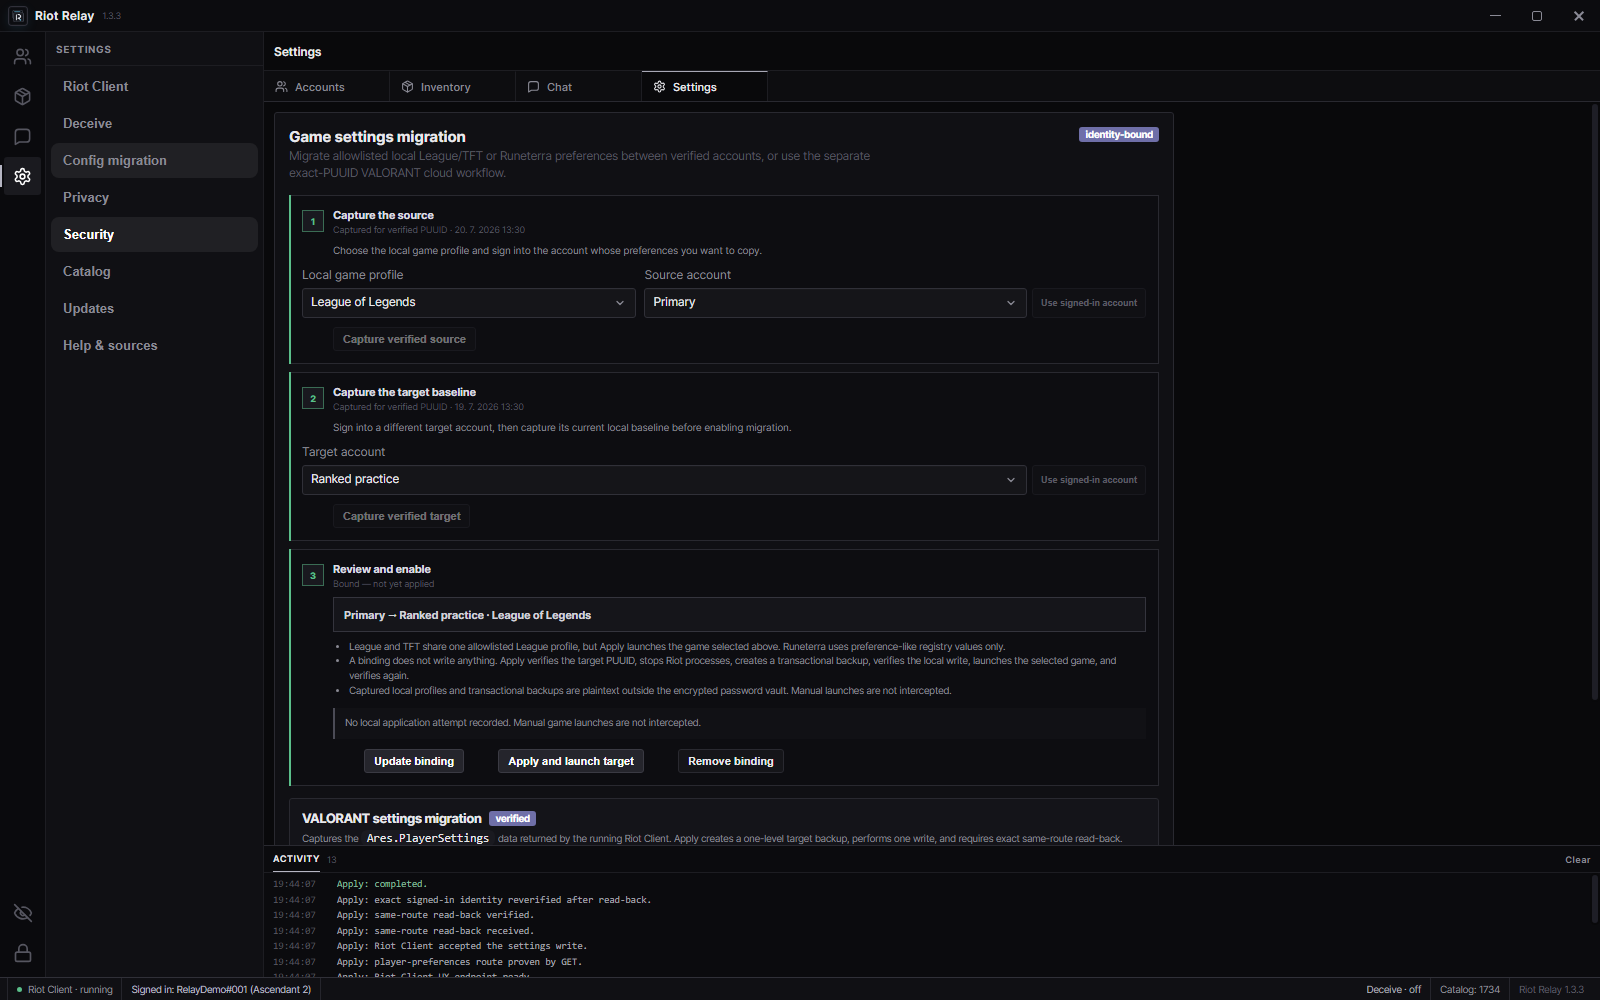
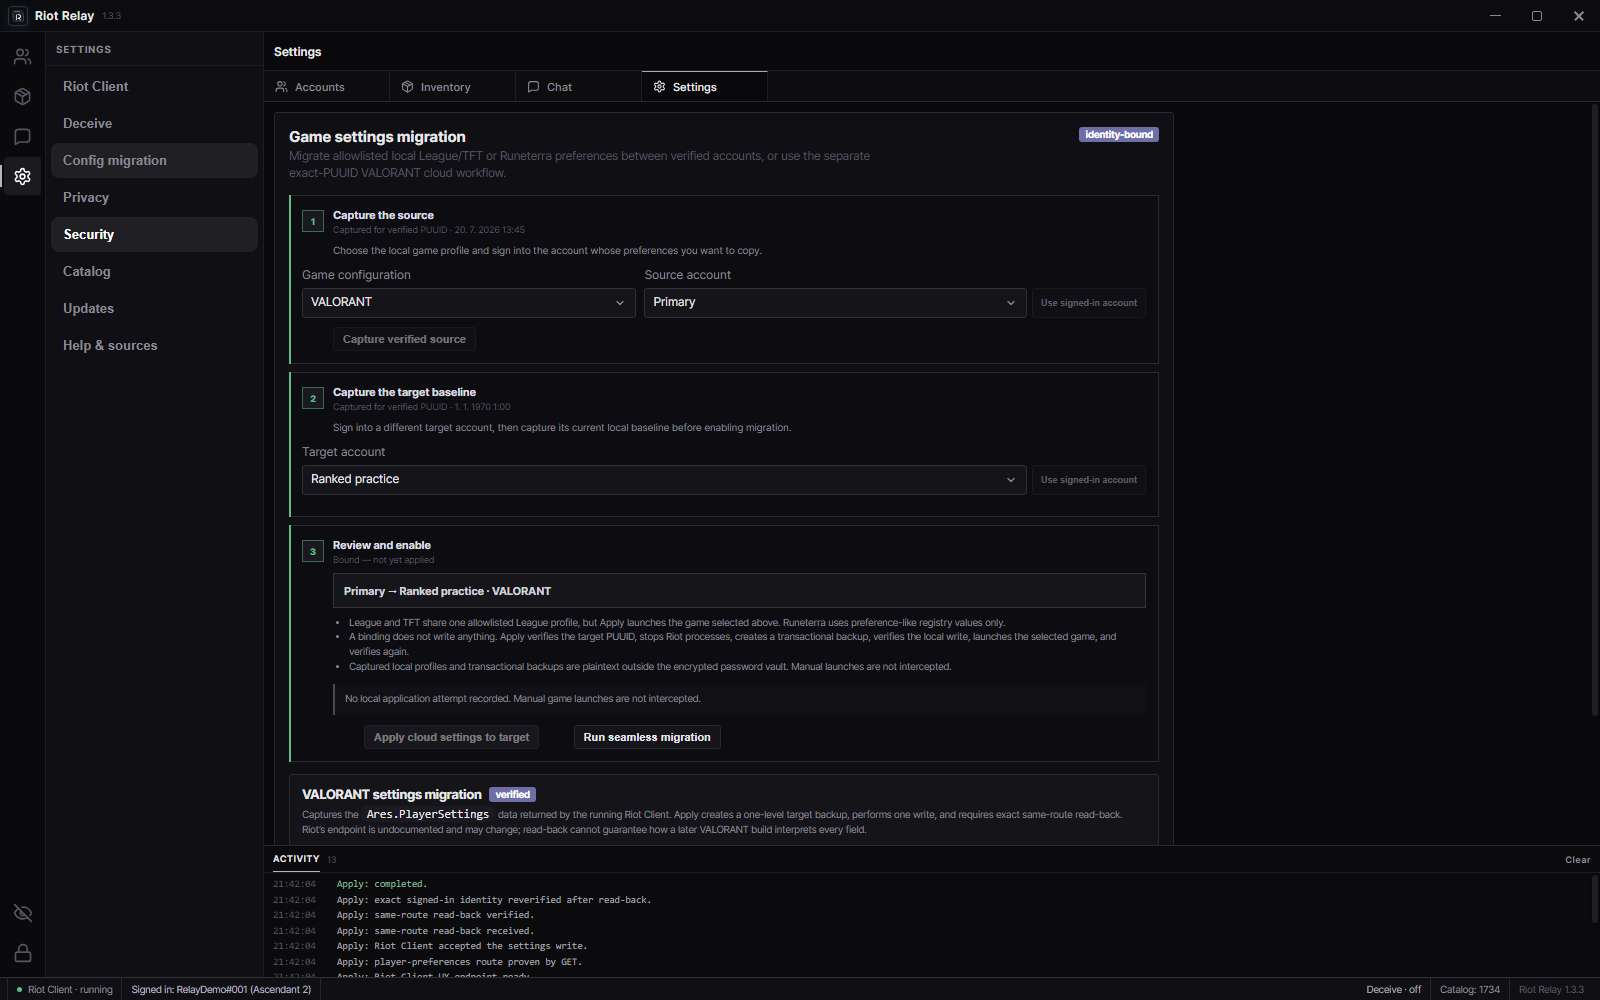
Release Riot Relay 1.3.4 hotfix

Changed region(s): [[0.1875, 0.496, 0.6875, 0.868], [0.1875, 0.248, 0.25, 0.31], [0.2812, 0.403, 0.3125, 0.434]]

diff --git a/renderer/app.js b/renderer/app.js
@@ -34,7 +34,7 @@ const state = {
   activity: [],
   rankIcons: {},
   settings: {},
-  updates: { status: 'idle', currentVersion: '1.3.3', availableVersion: null, progress: 0 },
+  updates: { status: 'idle', currentVersion: '1.3.4', availableVersion: null, progress: 0 },
   startup: { supported: false, enabled: false, reason: 'Checking Windows startup registration…' },
   configProfiles: [],
   configProfilesError: null,
@@ -1538,9 +1538,11 @@ async function doSwitch(id, launchGame = null) {
       try { state.accounts = unwrap(await api.accounts.list()); } catch { /* locked */ }
     }
     renderAccounts(); renderDetail();
+    return res;
   } catch (e) {
     logActivity(e.message, 'bad');
     toast(e.message, 'bad');
+    return null;
   } finally {
     await refreshConfigProfiles();
     switchOverlay.hidden = true;
@@ -2085,7 +2087,8 @@ async function refreshDeceiveState() {
   }
 }
 
-function configNamespace() { return $('#config-game').value === 'lol' || $('#config-game').value === 'tft' ? 'league' : $('#config-game').value; }
+function configNamespace() { return $('#config-game').value; }
+function configLaunchGame() { return configNamespace() === 'league' ? $('#config-league-launch').value : configNamespace(); }
 function linkedConfigAccounts() {
   const linkedIds = new Set(state.configProfiles.filter((item) => item && item.linked === true).map((item) => item.accountId));
   return state.accounts.filter((account) => linkedIds.has(account.id));
@@ -2190,15 +2193,16 @@ function renderConfigProfileStatus() {
   const differentAccounts = !!sourceId && !!targetId && sourceId !== targetId;
   const sourceLinked = source?.linked === true;
   const targetLinked = target?.linked === true;
-  const sourceReady = !!(source && source.profiles && source.profiles[namespace]);
-  const targetReady = !!(target && target.profiles && target.profiles[namespace]);
-  const sourceInvalid = !!(source && source.profileErrors && source.profileErrors[namespace]);
-  const targetInvalid = !!(target && target.profileErrors && target.profileErrors[namespace]);
+  const isCloud = namespace === 'valorant';
+  const sourceReady = isCloud ? source?.cloudCaptured === true : !!(source && source.profiles && source.profiles[namespace]);
+  const targetReady = isCloud ? targetLinked : !!(target && target.profiles && target.profiles[namespace]);
+  const sourceInvalid = !isCloud && !!(source && source.profileErrors && source.profileErrors[namespace]);
+  const targetInvalid = !isCloud && !!(target && target.profileErrors && target.profileErrors[namespace]);
   const sourceCaptureAllowed = enoughLinkedAccounts && sourceLinked && activeId === sourceId;
-  const targetCaptureAllowed = enoughLinkedAccounts && targetLinked && activeId === targetId;
-  const bound = !!(target && target.bindings && target.bindings[namespace]);
-  const applicable = !!(target && target.bindingApplicable && target.bindingApplicable[namespace]);
-  const boundSourceId = target && target.bindingSources && target.bindingSources[namespace];
+  const targetCaptureAllowed = !isCloud && enoughLinkedAccounts && targetLinked && activeId === targetId;
+  const bound = isCloud ? sourceReady && differentAccounts : !!(target && target.bindings && target.bindings[namespace]);
+  const applicable = isCloud ? bound && targetLinked : !!(target && target.bindingApplicable && target.bindingApplicable[namespace]);
+  const boundSourceId = isCloud ? sourceId : target && target.bindingSources && target.bindingSources[namespace];
   const selectedRouteBound = bound && boundSourceId === sourceId;
   const sourceTime = sourceReady ? formatConfigCaptureTime(source.profileCapturedAt && source.profileCapturedAt[namespace]) : '';
   const targetTime = targetReady ? formatConfigCaptureTime(target.profileCapturedAt && target.profileCapturedAt[namespace]) : '';
@@ -2241,14 +2245,20 @@ function renderConfigProfileStatus() {
     : selectedRouteBound ? 'complete' : sourceReady && targetReady && differentAccounts ? 'active' : 'blocked');
 
   $('#btn-config-capture-source').disabled = unavailable || !sourceCaptureAllowed;
-  $('#btn-config-capture-target').disabled = unavailable || !sourceReady || !differentAccounts || !targetCaptureAllowed;
-  $('#btn-config-migrate').disabled = unavailable || !enoughLinkedAccounts || !sourceLinked || !targetLinked || !sourceReady || !targetReady || !differentAccounts;
+  $('#btn-config-capture-target').hidden = isCloud;
+  $('#btn-config-capture-target').disabled = isCloud || unavailable || !sourceReady || !differentAccounts || !targetCaptureAllowed;
+  $('#btn-config-migrate').hidden = isCloud;
+  $('#btn-config-migrate').disabled = isCloud || unavailable || !enoughLinkedAccounts || !sourceLinked || !targetLinked || !sourceReady || !targetReady || !differentAccounts;
   $('#btn-config-migrate').textContent = selectedRouteBound ? 'Update binding' : 'Save binding';
-  $('#btn-config-apply').disabled = unavailable || !enoughLinkedAccounts || !differentAccounts || !sourceLinked || !targetLinked || !selectedRouteBound || !applicable;
-  $('#btn-config-remove').hidden = !bound;
+  $('#btn-config-apply').disabled = unavailable || !enoughLinkedAccounts || !differentAccounts || !sourceLinked || !targetLinked || !sourceReady || (isCloud ? activeId !== targetId : !selectedRouteBound || !applicable);
+  $('#btn-config-apply').textContent = isCloud ? 'Apply cloud settings to target' : 'Apply and launch target';
+  $('#btn-config-auto').disabled = unavailable || !enoughLinkedAccounts || !differentAccounts || !sourceLinked || !targetLinked;
+  $('#btn-config-remove').hidden = isCloud || !bound;
   $('#btn-config-remove').disabled = unavailable;
+  $('#config-league-launch-wrap').hidden = namespace !== 'league';
   const cloud = $('#config-cloud');
   if (cloud) {
+    cloud.hidden = !isCloud;
     const activeId = activeConfigAccountId();
     // The captured source is whichever validated account blob is newest.
     const source = latestCloudSourceStatus();
@@ -2326,10 +2336,13 @@ $('#set-startup').addEventListener('change', async (event) => {
 $('#config-source').addEventListener('change', () => { enforceDistinctConfigRoles('source'); state.configRoles.intentional = true; renderConfigProfileStatus(); });
 $('#config-target').addEventListener('change', () => { enforceDistinctConfigRoles('target'); state.configRoles.intentional = true; renderConfigProfileStatus(); });
 $('#config-game').addEventListener('change', renderConfigProfileStatus);
+$('#config-league-launch').addEventListener('change', renderConfigProfileStatus);
 $('#btn-config-source-current').addEventListener('click', () => useActiveConfigAccount('source'));
 $('#btn-config-target-current').addEventListener('click', () => useActiveConfigAccount('target'));
 $('#btn-config-capture-source').addEventListener('click', (event) => runConfigAction(event.currentTarget,
-  () => api.configs.capture($('#config-source').value, $('#config-game').value).then(unwrap),
+  () => configNamespace() === 'valorant'
+    ? api.configs.captureCloud($('#config-source').value).then(unwrap)
+    : api.configs.capture($('#config-source').value, configNamespace()).then(unwrap),
   'Source preferences captured while the selected PUUID was verified.'));
 $('#btn-config-capture-target').addEventListener('click', (event) => runConfigAction(event.currentTarget,
   () => api.configs.capture($('#config-target').value, $('#config-game').value).then(unwrap),
@@ -2337,7 +2350,37 @@ $('#btn-config-capture-target').addEventListener('click', (event) => runConfigAc
 $('#btn-config-migrate').addEventListener('click', (event) => runConfigAction(event.currentTarget,
   () => api.configs.migrate($('#config-source').value, $('#config-target').value, $('#config-game').value).then(unwrap),
   'Binding saved. No files were changed; use Apply and launch target.'));
-$('#btn-config-apply').addEventListener('click', () => doSwitch($('#config-target').value, $('#config-game').value));
+$('#btn-config-apply').addEventListener('click', async () => {
+  if (configNamespace() === 'valorant') {
+    await runConfigAction($('#btn-config-apply'),
+      () => api.configs.applyCloud($('#config-source').value).then(unwrap),
+      'VALORANT cloud settings applied and verified.');
+  } else await doSwitch($('#config-target').value, configLaunchGame());
+});
+$('#btn-config-auto').addEventListener('click', async (event) => {
+  const button = event.currentTarget;
+  const sourceId = $('#config-source').value;
+  const targetId = $('#config-target').value;
+  const namespace = configNamespace();
+  button.disabled = true; button.classList.add('is-loading');
+  try {
+    let result = await doSwitch(sourceId, namespace === 'valorant' ? 'valorant' : null);
+    if (!result || result.verified !== true) throw new Error('Source account could not be verified.');
+    if (namespace === 'valorant') unwrap(await api.configs.captureCloud(sourceId));
+    else unwrap(await api.configs.capture(sourceId, namespace));
+    result = await doSwitch(targetId, namespace === 'valorant' ? 'valorant' : null);
+    if (!result || result.verified !== true) throw new Error('Target account could not be verified.');
+    if (namespace === 'valorant') unwrap(await api.configs.applyCloud(sourceId));
+    else {
+      unwrap(await api.configs.capture(targetId, namespace));
+      unwrap(await api.configs.migrate(sourceId, targetId, namespace));
+      result = await doSwitch(targetId, configLaunchGame());
+      if (!result || result.verified !== true) throw new Error('Target configuration was prepared, but launch verification did not complete.');
+    }
+    toast('Seamless migration completed.', 'good');
+  } catch (error) { logActivity(error.message, 'bad'); toast(error.message, 'bad'); }
+  finally { button.classList.remove('is-loading'); await refreshConfigProfiles(); }
+});
 $('#btn-cloud-capture').addEventListener('click', (event) => runConfigAction(event.currentTarget,
   async () => {
     // You can only capture whoever is signed in right now; that becomes the source.

diff --git a/electron/main.js b/electron/main.js
@@ -85,6 +85,12 @@ function configureUserData() {
 }
 configureUserData();
 
+// Set the Windows application identity before Electron creates any windows or
+// taskbar registrations. Late assignment can leave the running window grouped
+// under Electron instead of the packaged Riot Relay shortcut.
+const WINDOWS_APP_ID = 'com.riotrelay.desktop';
+if (process.platform === 'win32') app.setAppUserModelId(WINDOWS_APP_ID);
+
 const openDevTools = process.argv.includes('--devtools');
 
 let mainWindow = null;
@@ -95,6 +101,7 @@ let lastTrayNotificationAt = 0;
 let rendererServer = null;
 let rendererOrigin = '';
 let isQuitting = false;
+let minimizeToTaskbarPending = false;
 let vault = null;
 let riot = null;
 let catalog = null;
@@ -344,6 +351,15 @@ function minimizeMainWindow() {
   else mainWindow.minimize();
 }
 
+function minimizeMainWindowToTaskbar() {
+  if (!mainWindow || mainWindow.isDestroyed()) return;
+  minimizeToTaskbarPending = true;
+  mainWindow.setSkipTaskbar(false);
+  mainWindow.show();
+  mainWindow.minimize();
+  setTimeout(() => { minimizeToTaskbarPending = false; }, 1000).unref();
+}
+
 function createWindow() {
   if (mainWindow && !mainWindow.isDestroyed()) {
     focusMainWindow();
@@ -392,6 +408,10 @@ function createWindow() {
 
 
   mainWindow.on('minimize', (event) => {
+    if (minimizeToTaskbarPending) {
+      minimizeToTaskbarPending = false;
+      return;
+    }
     if (!isQuitting && trayEnabled()) {
       event.preventDefault();
       // Native taskbar minimize can flip isVisible() before this event reaches
@@ -1482,18 +1502,19 @@ async function verifyActiveAccount(account, timeoutMs = 30000, allowUserVerifica
       // login form. Repeated samples avoid treating normal startup as an auth
       // failure while the client is still coming up.
       unauthenticatedSamples = riot.isRunning() ? unauthenticatedSamples + 1 : 0;
-      const requiredSamples = allowUserVerification ? 8 : 12;
-      if (unauthenticatedSamples >= requiredSamples) {
-        return allowUserVerification
-          ? {
-            status: 'authentication-not-confirmed',
-            reason: 'Riot did not authenticate. Verify the saved username/password or complete Riot’s verification challenge.',
-          }
-          : { status: 'unauthenticated' };
+      const requiredSamples = 12;
+      if (!allowUserVerification && unauthenticatedSamples >= requiredSamples) {
+        return { status: 'unauthenticated' };
       }
     }
     const waitMs = Math.min(1000, Math.max(0, deadline - Date.now()));
     if (waitMs) await wait(waitMs);
+  }
+  if (allowUserVerification && !lastLive && riot.isRunning()) {
+    return {
+      status: 'authentication-not-confirmed',
+      reason: 'Riot did not authenticate before the continuation timeout. Verify the saved credentials or complete Riot’s verification challenge.',
+    };
   }
   if (!lastLive && riot.isRunning()) return { status: 'unauthenticated' };
   return { status: 'timeout', live: lastLive || undefined };
@@ -1932,8 +1953,8 @@ handle('account:switch', async (payload) => runAccountSwitch(async () => {
       instant,
       verifyAccount: acc.puuid ? ({ phase } = {}) => verifyActiveAccount(
         acc,
-        phase === 'post-login' ? 45000 : 30000,
-        phase === 'post-login',
+        phase === 'manual' || phase === 'continuation' ? 180000 : phase === 'post-login' ? 45000 : 30000,
+        phase === 'manual' || phase === 'continuation' || phase === 'post-login',
       ) : null,
       onBeforeLaunch: async (step) => {
         if (instant) {
@@ -2064,7 +2085,7 @@ handle('account:switch', async (payload) => runAccountSwitch(async () => {
   // After a verified switch, only minimize to the taskbar. Hiding to the tray
   // made the app appear to vanish; the window must remain easily recoverable.
   if (settings.minimizeOnSwitch && mainWindow && result.verified === true) {
-    try { mainWindow.minimize(); } catch { /* window may be gone */ }
+    try { minimizeMainWindowToTaskbar(); } catch { /* window may be gone */ }
   }
   return result;
 }));

diff --git a/electron/switcher.js b/electron/switcher.js
@@ -528,9 +528,7 @@ async function switchAccount({
   if (loginMode === 'native-required' && !instant && !password) {
     throw new Error('LOGIN_PASSWORD_MISSING: Edit this roster entry and save its password before switching.');
   }
-  if (loginMode !== 'native-required' && !instant) {
-    throw new Error('AUTO_LOGIN_DISABLED: Enable “Auto-fill credentials on switch” in Settings before switching.');
-  }
+  const manualLogin = loginMode !== 'native-required';
   const targetLabel = game && GAMES[game] ? GAMES[game].label : 'Riot Client';
   const stageProductLaunch = !!(game && typeof onBeforeGameLaunch === 'function');
   let configMigration = null;
@@ -587,8 +585,8 @@ async function switchAccount({
     if (preparation && preparation.instant === false) instant = false;
     await delay(400);
   }
-  if (!instant && loginMode !== 'native-required') {
-    throw new Error('AUTO_LOGIN_DISABLED: The saved session could not be restored and automatic login is disabled in Settings.');
+  if (!instant && manualLogin) {
+    onStep('Automatic credential entry is off. Sign in to the requested account in Riot Client; this switch will resume after exact identity verification…');
   }
 
   const initialTarget = stageProductLaunch ? 'Riot Client for identity verification' : targetLabel;
@@ -597,6 +595,36 @@ async function switchAccount({
   if (!stageProductLaunch && game) {
     launchRequested = initialLaunch.productRequested === true;
     launcherAccepted = initialLaunch.launcherAccepted === true;
+  }
+
+  if (!instant && manualLogin) {
+    const verificationAvailable = typeof verifyAccount === 'function';
+    const verification = verificationAvailable ? await verify('manual') : { status: 'timeout' };
+    const verified = verification.status === 'matched';
+    if (verified) await launchVerifiedProduct();
+    onStep(verified
+      ? 'Requested account verified; the automatic switch is continuing.'
+      : 'Manual sign-in was left open because the requested PUUID was not verified before the timeout.');
+    return {
+      instant: false,
+      fallback: false,
+      verified,
+      recoverable: !verified && verification.status !== 'mismatched',
+      awaitingUserVerification: !verified && verification.status !== 'mismatched',
+      verification,
+      verificationAvailable,
+      automationAttempted: false,
+      inputDelivered: false,
+      loginSubmitted: false,
+      staySignedInClicked: false,
+      manualRequired: !verified,
+      reason: verified ? undefined : 'Complete sign-in to the requested account, then retry if Riot Relay did not resume automatically.',
+      launchedGame,
+      launchRequested,
+      launcherAccepted,
+      launchVerified,
+      configMigration,
+    };
   }
 
   let fallback = false;

diff --git a/renderer/index.html b/renderer/index.html
@@ -319,7 +319,8 @@
                 <header><span class="config-step__number">1</span><div><strong>Capture the source</strong><small id="config-source-status">Not captured</small></div></header>
                 <p>Choose the local game profile and sign into the account whose preferences you want to copy.</p>
                 <div class="config-step__fields">
-                  <div class="field"><label for="config-game">Local game profile</label><select id="config-game" class="select"><option value="lol">League of Legends</option><option value="tft">Teamfight Tactics</option><option value="lor">Legends of Runeterra</option></select></div>
+                  <div class="field"><label for="config-game">Game configuration</label><select id="config-game" class="select"><option value="valorant">VALORANT</option><option value="league">League of Legends + TFT</option><option value="lor">Legends of Runeterra</option></select></div>
+                  <div class="field" id="config-league-launch-wrap" hidden><label for="config-league-launch">Launch after apply</label><select id="config-league-launch" class="select"><option value="lol">League of Legends</option><option value="tft">Teamfight Tactics</option></select></div>
                   <div class="field"><label for="config-source">Source account</label><div class="config-account-picker"><select id="config-source" class="select"></select><button class="btn btn--ghost config-use-current" id="btn-config-source-current" type="button">Use signed-in account</button></div></div>
                 </div>
                 <button class="btn btn--ghost" id="btn-config-capture-source" type="button">Capture verified source</button>
@@ -344,6 +345,7 @@
                 <div class="settings-actions">
                   <button class="btn btn--primary" id="btn-config-migrate" type="button">Save binding</button>
                   <button class="btn btn--primary" id="btn-config-apply" type="button">Apply and launch target</button>
+                  <button class="btn btn--ghost" id="btn-config-auto" type="button">Run seamless migration</button>
                   <button class="btn btn--ghost" id="btn-config-remove" type="button" hidden>Remove binding</button>
                 </div>
               </section>

diff --git a/.github/release-notes/v1.3.4.md b/.github/release-notes/v1.3.4.md
@@ -1,0 +1,28 @@
+## Riot Relay 1.3.4
+
+This production hotfix repairs Windows app restoration, account switching, game launch continuation, and configuration migration.
+
+### Fixes
+- Assigns Riot Relay's Windows application identity before window creation so packaged windows use the correct taskbar grouping and icon.
+- Keeps the window on the taskbar after a successful switch instead of accidentally routing the post-switch minimize action through minimize-to-tray.
+- Allows manual sign-in when credential auto-fill is disabled and keeps exact-PUUID verification active for up to three minutes while Riot login or 2FA completes.
+- Continues a verified manual switch into configuration application and the requested game launch.
+- Presents the requested migration choices: VALORANT, League of Legends + TFT, and Legends of Runeterra.
+- Keeps VALORANT on its exact-PUUID cloud-only capture, backup, apply, and read-back verification path.
+- Keeps League/TFT on one shared allowlisted local profile while allowing either League or TFT to be launched after application.
+- Adds a seamless migration action that switches to the source, captures it, switches to the target, captures or backs it up, applies the profile, and launches the selected game.
+
+### Validation
+- All 78 automated tests pass.
+- JavaScript syntax checks, IDE diagnostics, and `git diff --check` pass.
+- Documentation UI capture and the packaged Windows x64 build pass.
+
+### Important Windows note
+If Windows opens Electron's generic welcome window from `node_modules\\electron\\dist\\electron.exe`, remove that stale development shortcut or taskbar pin and launch Riot Relay from its installed Start menu shortcut. The production installer and updater launch `Riot Relay.exe`.
+
+### Downloads
+- **EXE / NSIS:** recommended for normal installation and automatic updates.
+- **MSI:** intended for managed or manual deployment.
+- `SHA256SUMS.txt` contains SHA-256 hashes for the published assets.
+
+Riot Relay is unofficial community software and is not endorsed by Riot Games.